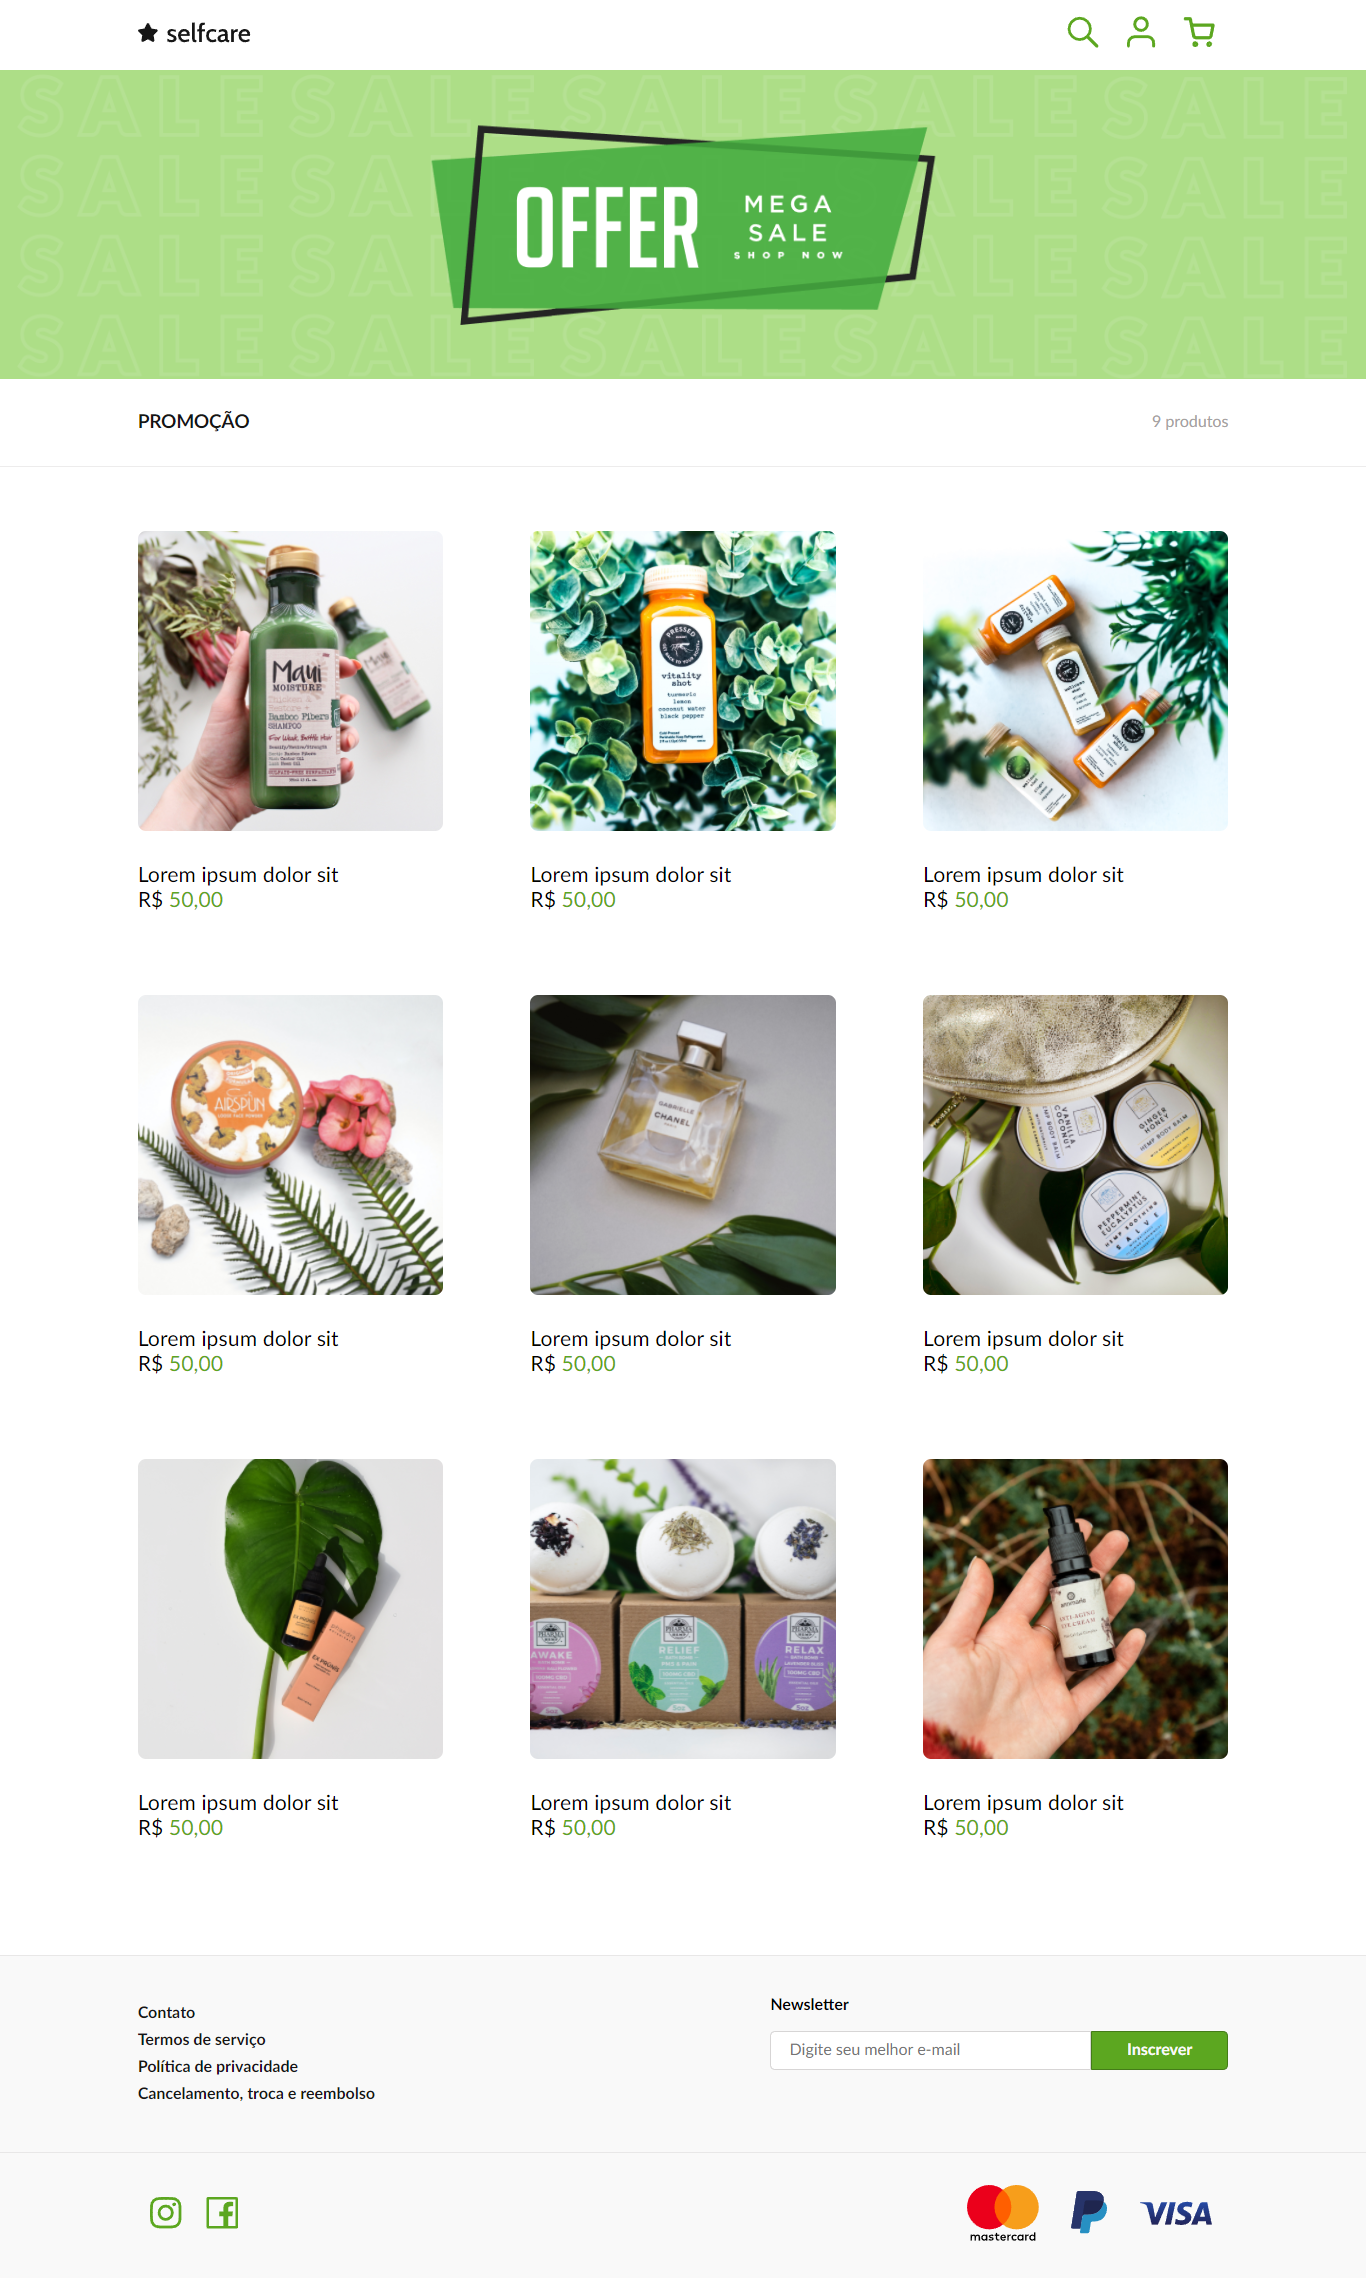
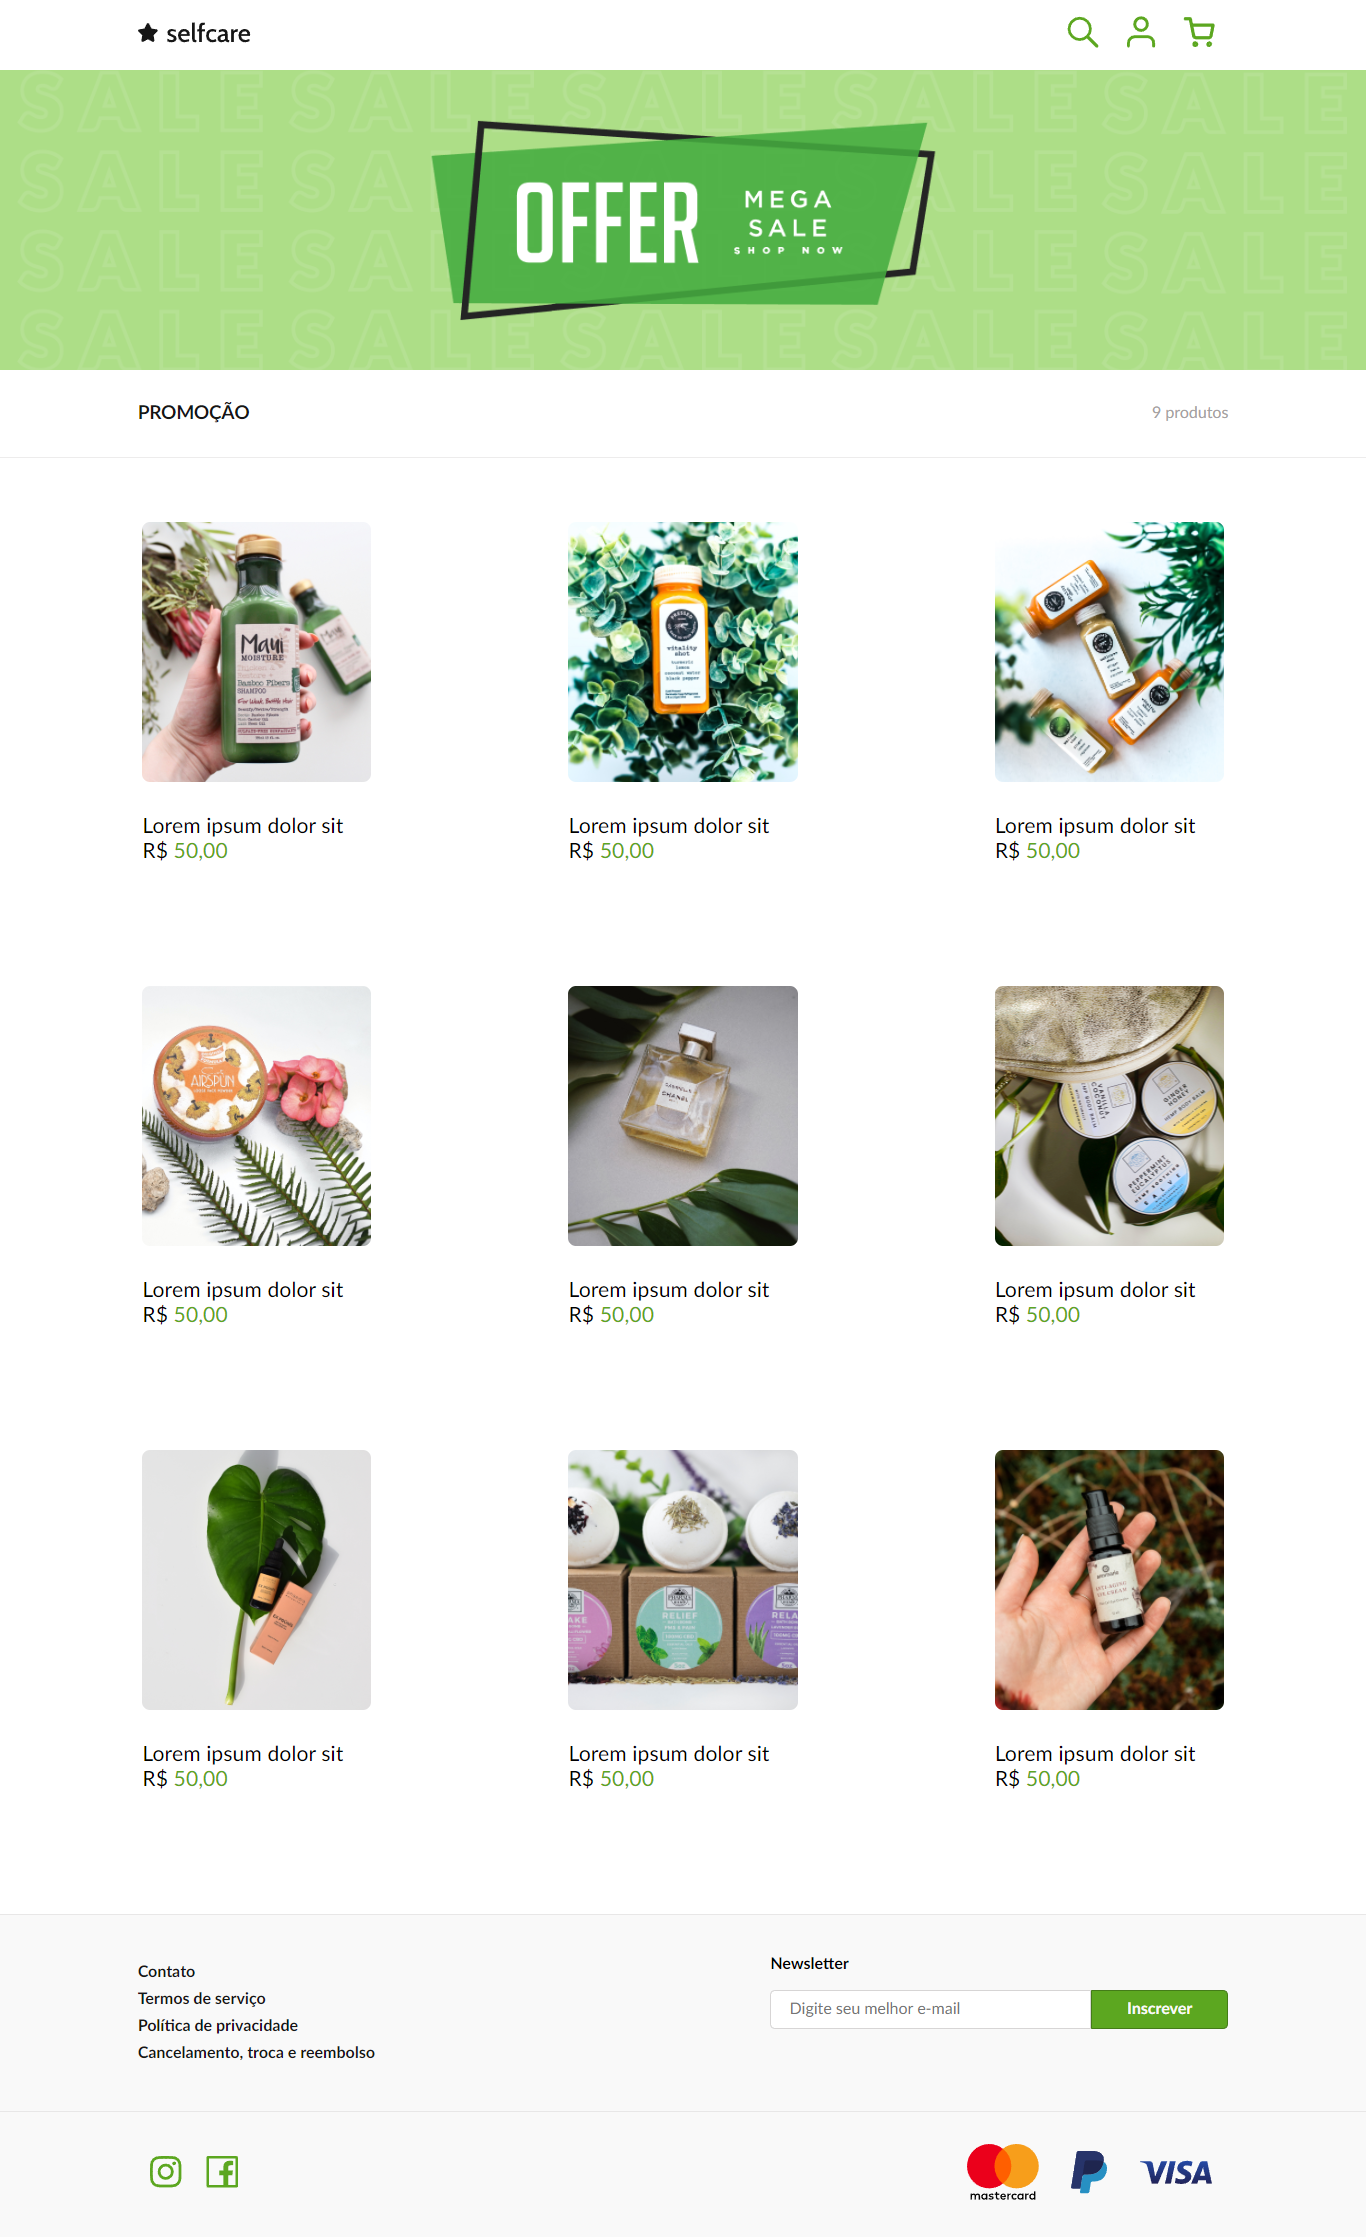
Ajuste de espaçamento sales

diff --git a/styles/main.css b/styles/main.css
@@ -115,15 +115,15 @@ html, body {
 }
 
 .main--sales .container .sales--item {
-  width: 28%;
-  margin-bottom: 64px;
+  width: 20%;
+  margin: 0 32px 64px 32px;
   height: 400px;
 }
 
 .main--sales .container .sales--item .img--item {
   width: 100%;
   height: 100%;
-  max-height: 300px;
+  max-height: 260px;
   background-repeat: no-repeat;
   background-position: center center;
   background-size: cover;
@@ -304,6 +304,7 @@ footer .footer--bottom .container .right svg {
   .main--sales .container .sales--item {
     width: calc(50% - 32px);
     max-width: 300px;
+    margin: 0 0px 64px 0px;
   }
   .main--sales .container .sales--item .img--item {
     max-height: 250px;

diff --git a/styles/_sale.scss b/styles/_sale.scss
@@ -32,14 +32,14 @@
         margin: 0 auto;
 
         .sales--item{
-            width: 28%;
-            margin-bottom: 64px;
+            width: 20%;
+            margin: 0 32px 64px 32px;
             height: 400px;
 
            .img--item{
                width: 100%;
                height: 100%;
-               max-height: 300px;
+               max-height: 260px;
                background-repeat: no-repeat;
                background-position: center center;
                background-size: cover;

diff --git a/styles/_responsive.scss b/styles/_responsive.scss
@@ -6,6 +6,7 @@
             .sales--item{   
                 width: calc(50% - 32px);
                 max-width: 300px;
+                margin: 0 0px 64px 0px;
             }
         }
     }
